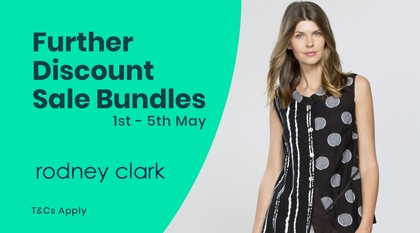
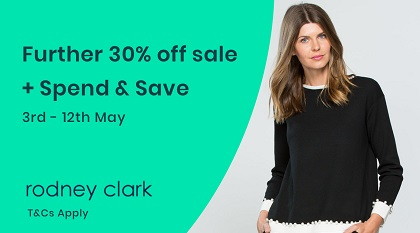
updated T&C and rodney clark tile

diff --git a/src/openmay/js/openmay.js b/src/openmay/js/openmay.js
@@ -25,7 +25,7 @@ const retail = [
     ['https://tomsaustralia.com.au/', '/images/JPG/retail/toms.jpg'],
     ['https://www.greggrantsaddlery.com.au/', '/images/JPG/retail/gregsaddelry.jpg'],
     ['https://skinnytan.com.au/collections/4-for-40', '/images/JPG/retail/skinny tan.jpg'],
-    ['https://www.rodneyclark.com/categories/sale', '/images/JPG/retail/rodney clark.jpg'],
+    ['https://www.rodneyclark.com/', '/images/JPG/retail/rodney clark.jpg'],
     ['https://www.pethouse.com.au/', '/images/JPG/retail/pet house.jpg'],
     ['https://www.lincraft.com.au/sewing-machines/by/brands/toyota/', '/images/JPG/retail/lincraft.jpg'],
     ['http://www.jacnjean.com.au/', '/images/JPG/retail/jacandjean.jpg'],

diff --git a/src/au-terms-giftcards.html b/src/au-terms-giftcards.html
@@ -205,7 +205,7 @@
                                 <p class=MsoNormal align=center style='text-align:center'>
                                     <b><span lang=EN-US
                                             style='font-size:12.0pt;line-height:107%;font-family:"Arial",sans-serif'>
-                                            Current Active Merchants (As at Monday 1st April 2019)
+                                            Current Active Merchants (As at 1st May 2019)
                                         </span></b>
                                 </p>
 

diff --git a/src/index.html b/src/index.html
@@ -330,7 +330,7 @@
 		<script src="https://ajax.googleapis.com/ajax/libs/jquery/3.3.1/jquery.min.js"></script>
 		<script src="scripts/Typer.js"></script>
 		<script src="scripts/instegram.js"></script>
-		<script src="openmay/js/openmay.js?20190502"></script>
+		<script src="openmay/js/openmay.js?20190503"></script>
 		<script src="/ads.js" type="text/javascript"></script>
 		<script type="text/javascript">
 			createFrontPagePromo();

diff --git a/src/openmay/index.html b/src/openmay/index.html
@@ -196,7 +196,7 @@
 <script src="../openmay/js/jquery-3.4.0.min.js"></script>
 <script src="../openmay/js/slick.js"></script>
 <script src="../openmay/js/bootstrap.js"></script>
-<script src="../openmay/js/openmay.js?20190502"></script>
+<script src="../openmay/js/openmay.js?20190503"></script>
 <script>
     initOpenmay();
 </script>
